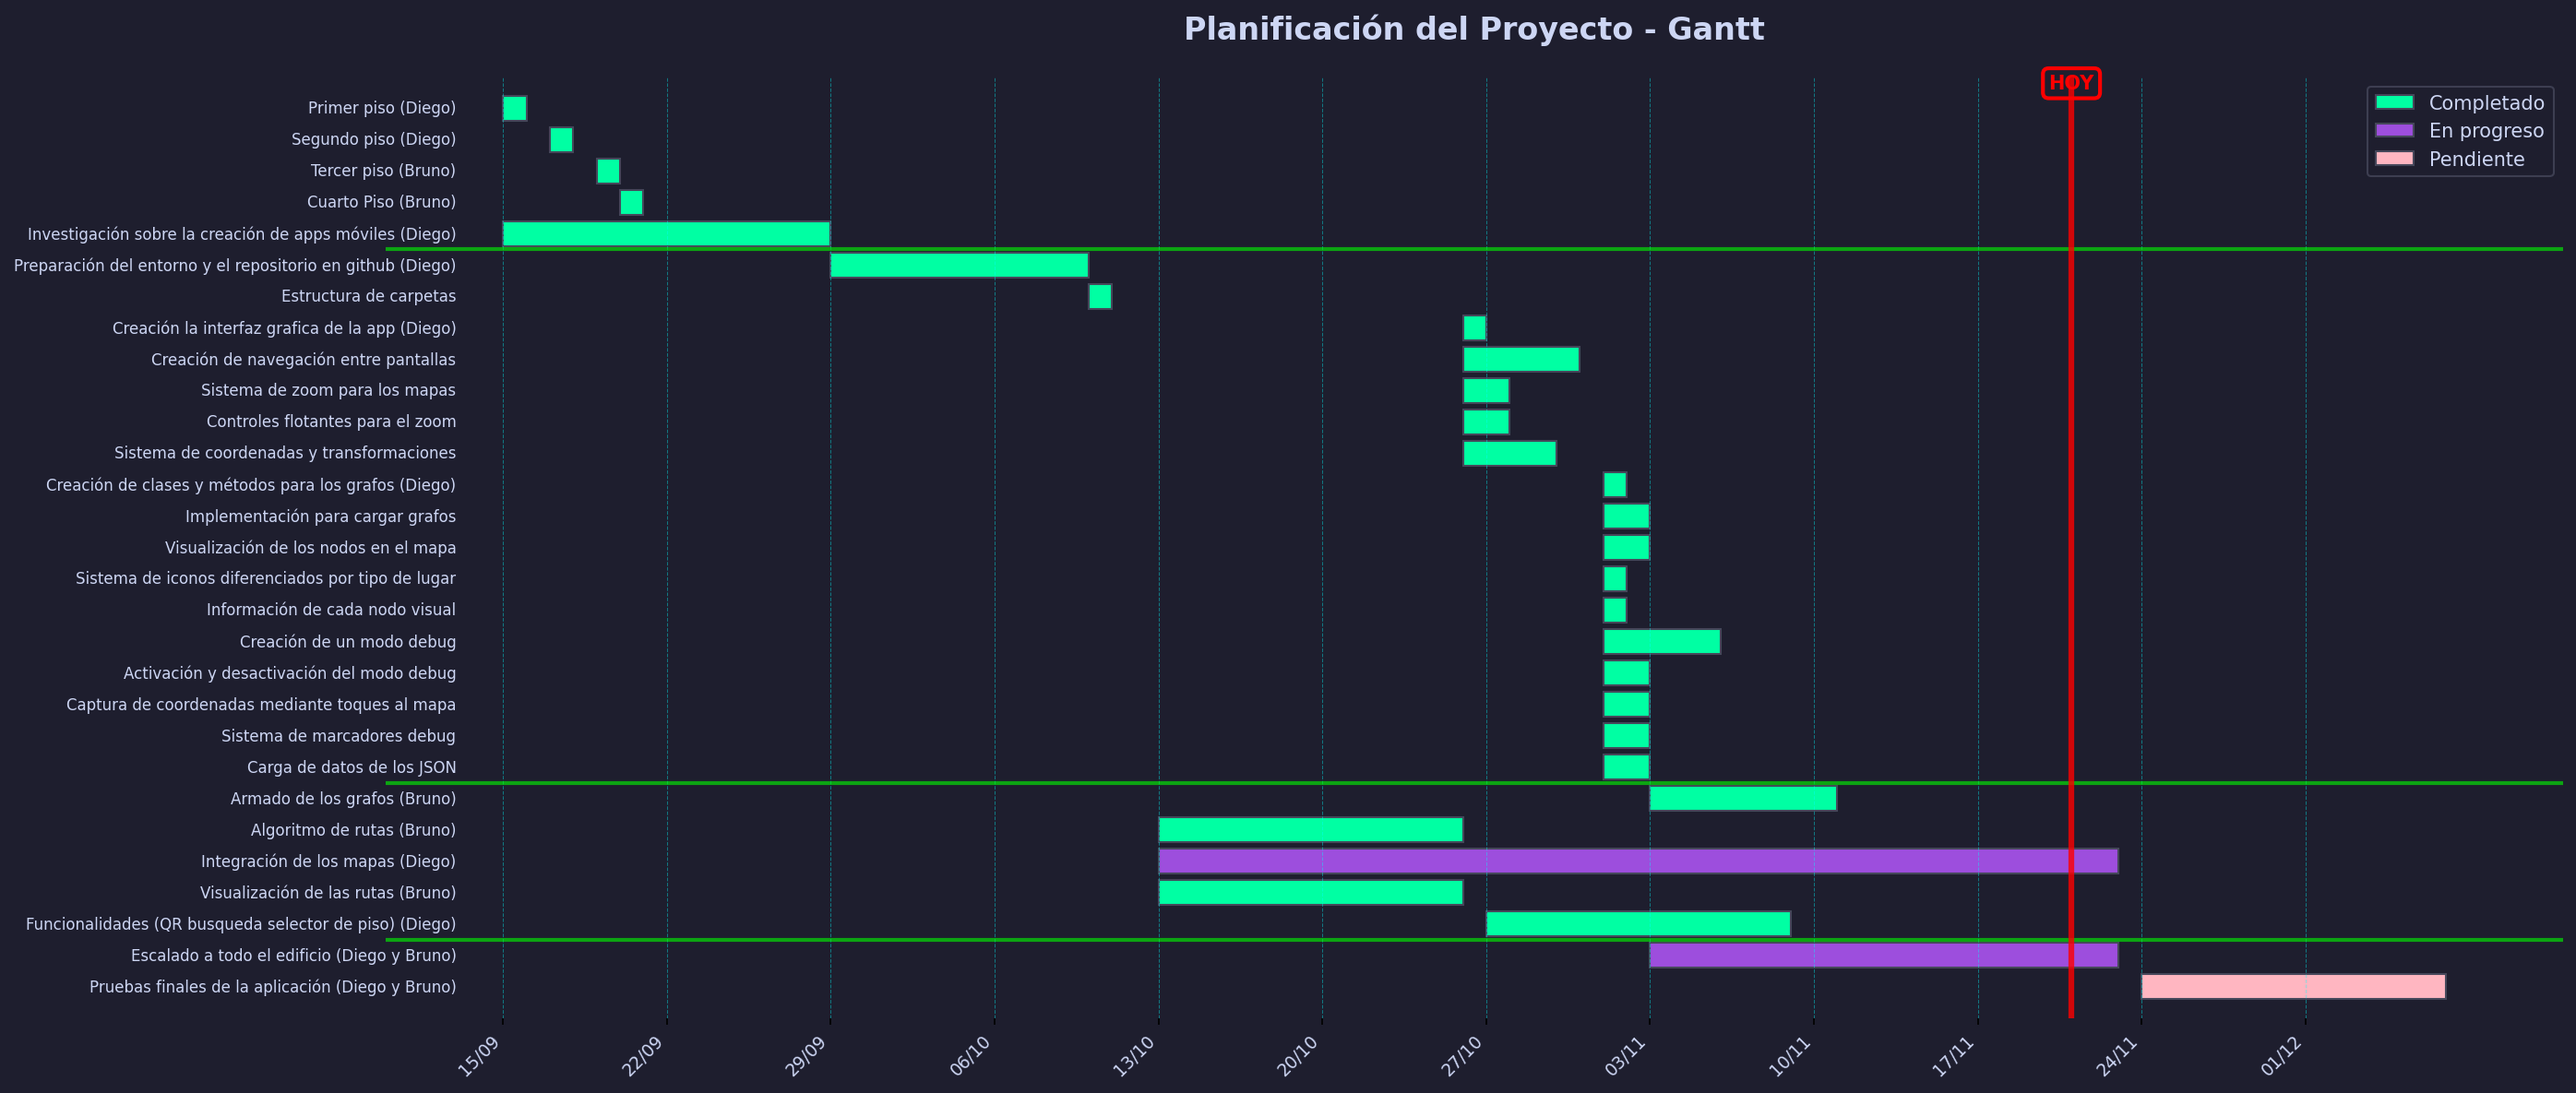
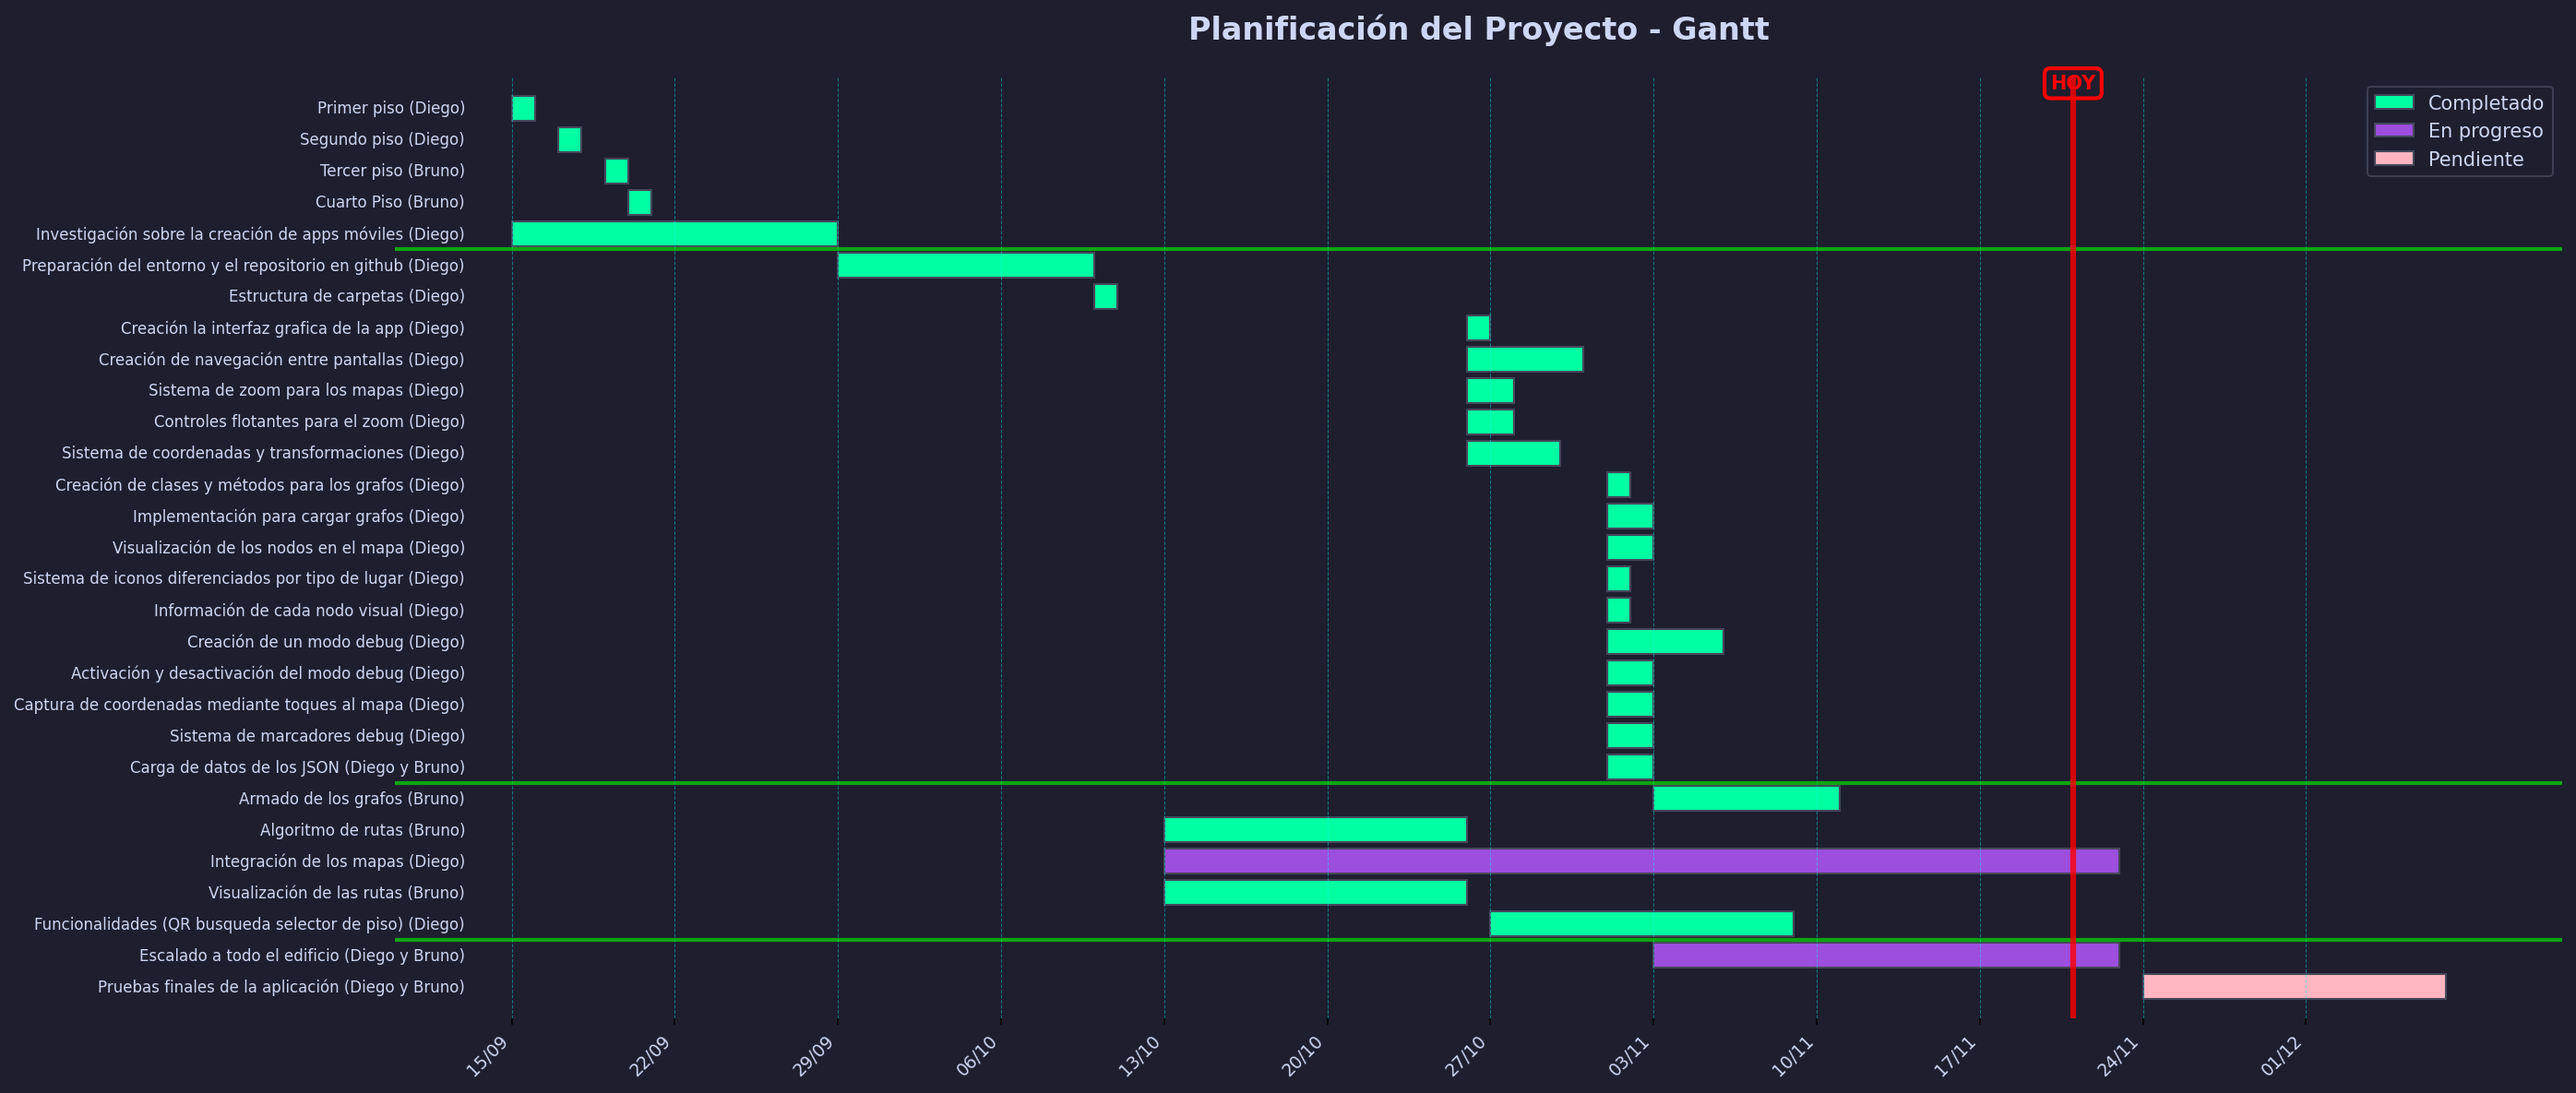
A

diff --git a/gantt.md b/gantt.md
@@ -13,22 +13,22 @@ gantt
 
     section Desarrollo de la aplicación web
     Preparación del entorno y el repositorio en github (Diego) :done, dev0, 2025-09-29, 2025-10-10
-    Estructura de carpetas                       :done, dev1, 2025-10-10, 1d
+    Estructura de carpetas (Diego)               :done, dev1, 2025-10-10, 1d
     Creación la interfaz grafica de la app (Diego) :done, dev2, 2025-10-26, 1d
-    Creación de navegación entre pantallas       :done, dev3, 2025-10-26, 5d
-    Sistema de zoom para los mapas               :done, dev4, 2025-10-26, 2d
-    Controles flotantes para el zoom             :done, dev5, 2025-10-26, 2d
-    Sistema de coordenadas y transformaciones    :done, dev6, 2025-10-26, 4d
+    Creación de navegación entre pantallas (Diego):done, dev3, 2025-10-26, 5d
+    Sistema de zoom para los mapas (Diego)      :done, dev4, 2025-10-26, 2d
+    Controles flotantes para el zoom (Diego)    :done, dev5, 2025-10-26, 2d
+    Sistema de coordenadas y transformaciones (Diego):done, dev6, 2025-10-26, 4d
     Creación de clases y métodos para los grafos (Diego) :done, dev7, 2025-11-01, 1d
-    Implementación para cargar grafos            :done, dev8, 2025-11-01, 2d
-    Visualización de los nodos en el mapa        :done, dev9, 2025-11-01, 2d
-    Sistema de iconos diferenciados por tipo de lugar :done, dev10, 2025-11-01, 1d
-    Información de cada nodo visual              :done, dev11, 2025-11-01, 1d
-    Creación de un modo debug                    :done, dev12, 2025-11-01, 5d
-    Activación y desactivación del modo debug    :done, dev13, 2025-11-01, 2d
-    Captura de coordenadas mediante toques al mapa :done, dev14, 2025-11-01, 2d
-    Sistema de marcadores debug                  :done, dev15, 2025-11-01, 2d
-    Carga de datos de los JSON                   :done, dev16, 2025-11-01, 2d
+    Implementación para cargar grafos (Diego)    :done, dev8, 2025-11-01, 2d
+    Visualización de los nodos en el mapa (Diego):done, dev9, 2025-11-01, 2d
+    Sistema de iconos diferenciados por tipo de lugar (Diego) :done, dev10, 2025-11-01, 1d
+    Información de cada nodo visual (Diego)              :done, dev11, 2025-11-01, 1d
+    Creación de un modo debug (Diego)                    :done, dev12, 2025-11-01, 5d
+    Activación y desactivación del modo debug (Diego)    :done, dev13, 2025-11-01, 2d
+    Captura de coordenadas mediante toques al mapa (Diego) :done, dev14, 2025-11-01, 2d
+    Sistema de marcadores debug (Diego)                  :done, dev15, 2025-11-01, 2d
+    Carga de datos de los JSON (Diego y Bruno)                   :done, dev16, 2025-11-01, 2d
 
     section Mapas y rutas
     Armado de los grafos (Bruno)                 :done, dev17, 2025-11-03, 2025-11-11
